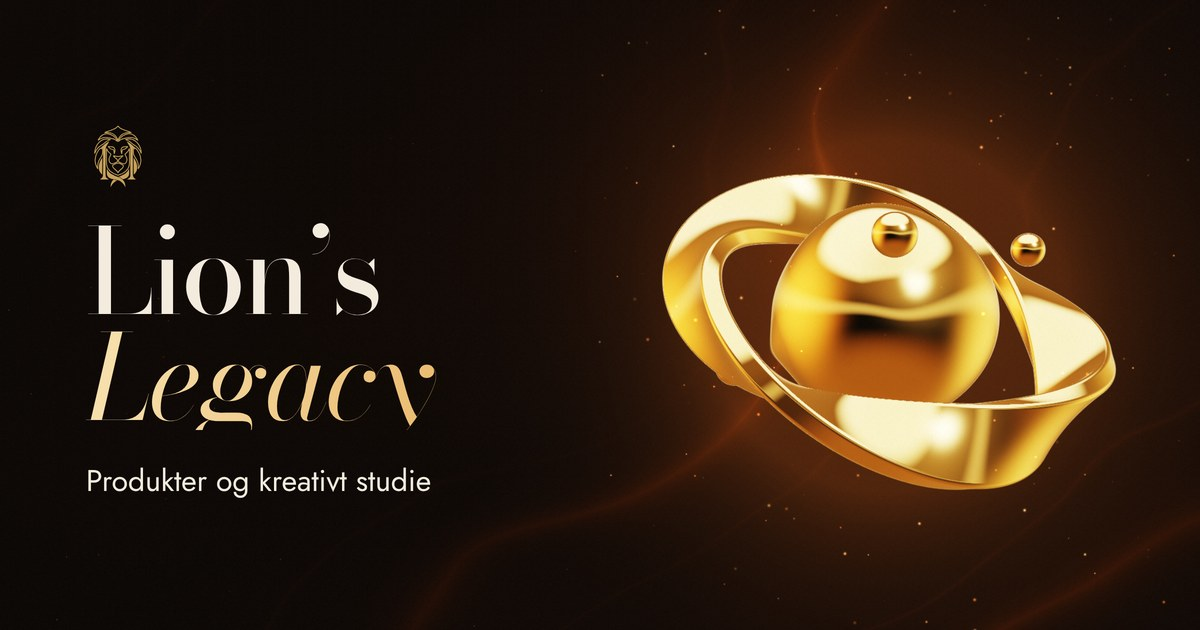
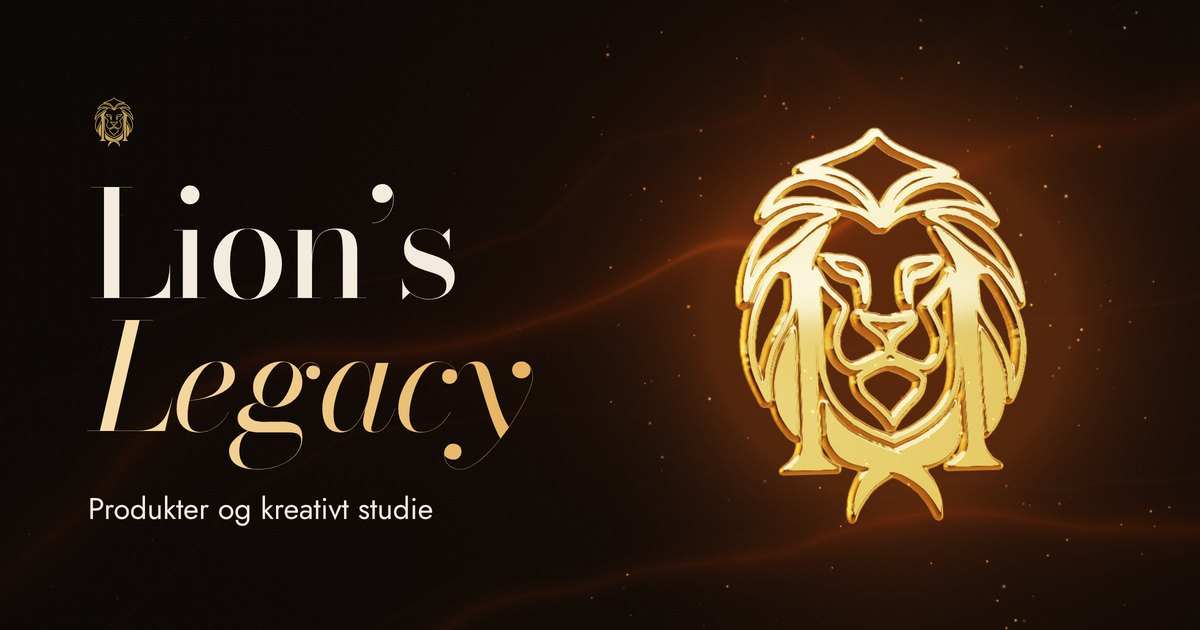
Løven fra logoet i guld som ny 3D-grafik
Kuglen med ringen er skiftet ud med løven fra logoet i poleret guld.

- scene.js tegner logoets streger (kopieret fra maerke.svg) på et lille
  lærred, regner afstanden til kanten ud for hver pixel og bruger feltet
  til at forme løven i 3D. Stregerne får en afrundet guldprofil, og en
  bølge af lys løber op gennem dem.
- Løven vender sig roligt mod musen og svajer lidt, men aldrig så
  meget, at den ses fra kanten. Står stille ved reduceret bevægelse.
- Kan browseren ikke læse tegningen, vises baggrunden uden 3D.
- Nyt delingsbillede (deling.jpg) med løven.
- README og CLAUDE.md fortæller, hvor løvens streger ligger.

Claude-Session: https://claude.ai/code/session_01VNWgwDe34UX7Nco1c2jxEJ

diff --git a/assets/js/scene.js b/assets/js/scene.js
@@ -1,5 +1,5 @@
 /* Lion’s Legacy — 3D-baggrund
-   En skulptur af flydende guld, gnister og en glødende guld/orange strøm.
+   Løven fra logoet i poleret guld, gnister og en glødende guld/orange strøm.
    Tegnes med WebGL direkte i browseren: ingen biblioteker, ingen tredjepart,
    ingen cookies. Følger musen, stopper når fanen er skjult, og står stille
    for besøgende, der har slået bevægelse fra (prefers-reduced-motion). */
@@ -32,12 +32,10 @@
     "uniform float uScale;",
     "uniform float uDim;",    // skulpturens lysstyrke
     "uniform float uFlow;",   // strømmens lysstyrke
-    "uniform vec3 uDrop;",    // dråben, der trækkes mod markøren
     "uniform vec3 uLight;",
-    "uniform mat3 uBand;",    // båndets drejning (beregnes i JavaScript)
-    "uniform vec4 uOrb0;",    // dråber i kredsløb: position og radius
-    "uniform vec4 uOrb1;",
-    "uniform vec4 uOrb2;",
+    "uniform mat3 uDrej;",    // løvens drejning mod markøren (beregnes i JavaScript)
+    "uniform sampler2D uLogo;", // løvens omrids som afstandsfelt (se logoFelt)
+    "uniform float uLogoN;",  // feltets størrelse i pixels
 
     "const float FL = 2.2;",
     "const vec3 RO = vec3(0.0, 0.0, 6.0);",
@@ -47,8 +45,6 @@
     "  return mix(mix(hash(i),hash(i+vec2(1.0,0.0)),u.x),mix(hash(i+vec2(0.0,1.0)),hash(i+vec2(1.0,1.0)),u.x),u.y);}",
     "float fbm(vec2 p){float v=0.0,a=0.5;mat2 m=mat2(1.6,1.2,-1.2,1.6);",
     "  for(int i=0;i<4;i++){v+=a*noise(p);p=m*p;a*=0.5;}return v;}",
-    "mat2 rot(float a){float c=cos(a),s=sin(a);return mat2(c,-s,s,c);}",
-    "float smin(float a,float b,float k){float h=clamp(0.5+0.5*(b-a)/k,0.0,1.0);return mix(b,a,h)-k*h*(1.0-h);}",
 
     // Guld/orange farveskala til strømmen (sRGB)
     "vec3 ramp(float x){",
@@ -59,32 +55,39 @@
     "  if(x<0.82)return mix(c2,c3,(x-0.6)/0.22);",
     "  return mix(c3,c4,(x-0.82)/0.18);}",
 
-    // Skulpturen: en flydende kerne, et snoet bånd og dråber
-    "float band(vec3 p){",
-    "  float a=atan(p.z,p.x);",
-    "  vec2 q=vec2(length(p.xz)-1.0,p.y);",
-    "  q=rot(a*1.5+uTime*0.35)*q;",
-    "  vec2 d=abs(q)-vec2(0.17,0.032);",
-    "  return length(max(d,0.0))+min(max(d.x,d.y),0.0)-0.022;}",
-
+    // Løvens omrids: afstand til logoet i planet (negativ inde i stregerne).
+    // Feltet dækker -1..1. Til lysberegningen (GLAT) læses det blødt, så guldet ikke får små riller.
+    "float GLAT=0.0;",
+    "vec4 kub(float v){vec4 n=vec4(1.0,2.0,3.0,4.0)-v;vec4 s=n*n*n;",
+    "  float x=s.x,y=s.y-4.0*s.x,z=s.z-4.0*s.y+6.0*s.x;return vec4(x,y,z,6.0-x-y-z)/6.0;}",
+    "vec4 bloedt(vec2 uv){",
+    "  vec2 st=uv*uLogoN-0.5;vec2 f=fract(st);st-=f;",
+    "  vec4 xc=kub(f.x),yc=kub(f.y);",
+    "  vec4 c=st.xxyy+vec2(-0.5,1.5).xyxy;",
+    "  vec4 s=vec4(xc.xz+xc.yw,yc.xz+yc.yw);",
+    "  vec4 o=(c+vec4(xc.yw,yc.yw)/s)/uLogoN;",
+    "  vec4 a=texture2D(uLogo,o.xz),b=texture2D(uLogo,o.yz),e=texture2D(uLogo,o.xw),d=texture2D(uLogo,o.yw);",
+    "  float sx=s.x/(s.x+s.y),sy=s.z/(s.z+s.w);",
+    "  return mix(mix(d,e,sx),mix(b,a,sx),sy);}",
+    "float logo(vec2 q){",
+    "  vec2 uv=clamp(vec2(0.5+q.x*0.5,0.5-q.y*0.5),0.001,0.999);",
+    "  vec4 t=GLAT>0.5?bloedt(uv):texture2D(uLogo,uv);",
+    "  float fin=(t.a-0.5)*0.04;",
+    "  float d=abs(fin)<0.0195?fin:(t.r-0.5)*0.25;",
+    "  vec2 o=abs(q)-0.999;",
+    "  return max(d,length(max(o,0.0)));}",
+    // Løven: logoets streger som afrundet, poleret guld, hvor en bølge af lys løber op
     "float map(vec3 w){",
-    "  vec3 p=(w-uCenter)/uScale;",
-    "  float t=uTime;",
-    // Kernen ånder
-    "  float core=length(p)-0.56;",
-    "  core+=0.022*sin(5.0*p.x+t*1.1)*sin(5.0*p.y+t*0.8)*sin(5.0*p.z+t*0.9);",
-    // Dråben ved markøren trækkes ud af kernen
-    "  float d=smin(core,length(p-uDrop)-0.105,0.24);",
-    // Dråber i kredsløb, der smelter sammen med kernen
-    "  d=smin(d,length(p-uOrb0.xyz)-uOrb0.w,0.26);",
-    "  d=smin(d,length(p-uOrb1.xyz)-uOrb1.w,0.26);",
-    "  d=smin(d,length(p-uOrb2.xyz)-uOrb2.w,0.26);",
-    // Båndet drejer med musen og langsomt af sig selv
-    "  d=min(d,band(uBand*p)*0.75);",
-    "  return d*uScale;}",
+    "  vec3 q=uDrej*((w-uCenter)/uScale);",
+    "  float S=1.12;",
+    "  float flow=pow(0.5+0.5*sin(q.y*3.0-uTime*1.4),8.0);",
+    "  float H=0.05+0.01*flow;",
+    "  float l=logo(q.xy/S)*S-0.016-0.006*flow;",
+    "  return (length(vec2(max(l+H,0.0),q.z))-H)*0.9*uScale;}",
 
-    "vec3 normal(vec3 p){vec2 e=vec2(0.0015,-0.0015)*uScale;",
-    "  return normalize(e.xyy*map(p+e.xyy)+e.yyx*map(p+e.yyx)+e.yxy*map(p+e.yxy)+e.xxx*map(p+e.xxx));}",
+    "vec3 normal(vec3 p){vec2 e=vec2(0.002,-0.002)*uScale;GLAT=1.0;",
+    "  vec3 n=normalize(e.xyy*map(p+e.xyy)+e.yyx*map(p+e.yyx)+e.yxy*map(p+e.yxy)+e.xxx*map(p+e.xxx));",
+    "  GLAT=0.0;return n;}",
 
     // Et mørkt fotostudie med varme lyskasser, som guldet spejler
     "vec3 env(vec3 r){",
@@ -236,6 +239,100 @@
     return u;
   }
 
+  /* ---------- Løven fra logoet ----------
+     Stregerne er kopieret fra assets/img/maerke.svg. Ændres logoet, så kopier
+     de nye d-værdier hertil: den første sti tegnes som streg, resten fyldes. */
+
+  var LOGO_STREG = "M49.6 75.8C49.4 75.7 49 75.5 48.7 75.4C48.5 75.3 48.1 75.2 48 75.1C47.8 75 47.6 74.9 46.7 74.6C45.8 74.3 44.1 73.5 43.5 73.1C43.3 73 43 72.8 42.8 72.7C40.7 71.6 38.1 69.2 36.9 67.3C36.8 67.1 36.6 66.8 36.5 66.6C36 65.8 35.4 64.5 35.2 63.5C35.1 63.1 35 62.9 34.8 61.9C34.7 61.4 34.6 59.6 34.6 58.2C34.5 57.5 34.5 53.4 34.5 49.1L34.5 41.3L34.6 40.9C34.7 40.6 34.7 40.3 34.7 40.3C34.7 40 34.8 40.1 34.9 40.5C35.1 40.9 35.2 41.1 35.3 41.4C35.6 42 35.9 42.5 36 42.8C36.1 42.9 36.2 43.1 36.2 43.1C36.2 43.1 36.5 43.6 36.9 44.1C37.3 44.6 37.8 45.1 39.5 46.6C39.9 47.1 40.3 47.5 40.4 47.6L40.5 47.7L40.4 48.0C40.3 48.3 39.9 49.1 39 51.1C38.5 51.9 38.2 53 38 53.9C38 54.4 38 55.7 38 56.2C38.3 57.6 39.1 59.1 40.2 59.8C40.9 60.4 41.3 60.5 42 60.5C42.7 60.5 43.6 60.3 45.5 59.4C45.7 59.4 46.2 59.2 46.6 59.0C48 58.4 49.1 57.8 49.3 57.5C49.4 57.4 49.4 57.3 49.4 56.7C49.4 55.9 49.3 55.7 49.1 55.1C48.8 54.5 48 53.7 47.3 53.2C46.9 52.9 45.9 52.2 45.4 51.8C44.5 51.1 44.2 50.6 44.1 50.0C44 49.5 44.1 49.5 44.3 49.7C44.6 49.9 44.9 50 45.9 50.1C46.2 50.2 46.6 50.2 46.7 50.2C46.9 50.3 47.2 50.3 47.4 50.3C47.7 50.4 47.9 50.4 47.9 50.4C48 50.5 49.2 50.6 50 50.6C50.7 50.6 52 50.5 52.1 50.4C52.1 50.4 52.3 50.4 52.5 50.3C52.8 50.3 53.1 50.3 53.2 50.2C53.4 50.2 53.8 50.2 54.1 50.1C55.1 50 55.4 49.9 55.6 49.7C55.9 49.5 55.9 49.5 55.9 50.0C55.8 50.6 55.4 51.1 54.6 51.8C54 52.2 53 52.9 52.7 53.2C52 53.7 51.2 54.5 50.9 55.1C50.6 55.7 50.6 55.9 50.6 56.7C50.6 57.3 50.6 57.4 50.7 57.5C50.9 57.8 52 58.4 53.4 59.0C53.8 59.2 54.3 59.4 54.4 59.4C56.3 60.3 57.2 60.5 58 60.5C58.6 60.5 59.1 60.4 59.8 59.8C60.8 59.1 61.7 57.6 61.9 56.2C62 55.7 62 54.4 61.9 53.9C61.8 53 61.4 51.9 61 51.1C60 49.1 59.6 48.3 59.5 48.0L59.4 47.7L59.6 47.6C59.6 47.5 60 47.1 60.5 46.6C62.1 45.1 62.6 44.6 63 44.1C63.4 43.6 63.7 43.1 63.7 43.1C63.7 43.1 63.8 42.9 63.9 42.8C64.1 42.5 64.4 42 64.7 41.4C64.8 41.1 64.9 40.9 65 40.5C65.1 40.1 65.2 40 65.2 40.3C65.2 40.3 65.3 40.6 65.3 40.9L65.4 41.3L65.4 49.1C65.4 53.4 65.4 57.5 65.4 58.2C65.4 59.6 65.2 61.4 65.1 61.9C64.9 62.9 64.9 63.1 64.8 63.5C64.5 64.5 64 65.8 63.5 66.6C63.4 66.8 63.2 67.1 63 67.3C61.9 69.2 59.3 71.6 57.2 72.7C57 72.8 56.6 73 56.5 73.1C55.9 73.5 54.2 74.3 53.3 74.6C52.4 74.9 52.2 75 52 75.1C51.8 75.2 51.5 75.3 51.2 75.4C50.9 75.5 50.5 75.7 50.3 75.8C50.1 75.8 50 75.9 50 75.9C50 75.9 49.8 75.8 49.6 75.8ZM50.1 72.3C50.4 71.5 52.1 69.5 53.5 68.3C55.5 66.7 56.3 65.9 56.6 65.2C56.9 64.6 57.2 63.6 57.2 63.0C57.2 62.8 57.2 62.7 57.1 62.6C57 62.5 56.1 61.9 56 61.9C55.9 61.8 55.8 61.8 55.7 61.7C55.6 61.6 55.3 61.5 55.1 61.4C54.8 61.2 54.4 61 54.1 60.9C53.7 60.6 52.8 60.2 52.4 60.1C51.9 59.9 51.4 59.8 51.2 59.7C51.1 59.7 50.9 59.7 50.7 59.6C50.5 59.6 50.2 59.6 50 59.6C49.7 59.6 49.4 59.6 49.3 59.6C49.1 59.7 48.9 59.7 48.7 59.7C48.5 59.8 48.1 59.9 47.5 60.1C47.1 60.2 46.3 60.6 45.8 60.9C45.6 61 45.1 61.2 44.9 61.4C44.7 61.5 44.4 61.6 44.3 61.7C44.1 61.8 44 61.8 44 61.9C43.9 61.9 43 62.5 42.9 62.6C42.6 62.9 42.9 64.3 43.3 65.2C43.7 65.9 44.4 66.7 46.4 68.3C47.9 69.5 49.6 71.5 49.9 72.3C49.9 72.4 50 72.4 50 72.4C50 72.4 50 72.4 50.1 72.3ZM22.5 66.8C22.5 66.6 22.2 66.2 22 65.8C20.9 63.7 20.2 61.8 19.8 60.3C19.8 60.2 19.8 59.9 19.7 59.7C19.7 59.5 19.6 59 19.5 58.6C19.5 58.3 19.4 57.7 19.4 57.5C19.3 57.1 19.3 56.8 19.3 55.6C19.4 53.5 19.6 52.1 20.2 49.8C20.2 49.7 20.4 49.2 20.5 48.8C21.1 47.2 21.1 47.4 22 45.4C22.6 44.2 24.1 41.9 25 40.9C25.1 40.7 25.4 40.4 25.6 40.2L25.9 39.9L26.6 39.8C27.8 39.8 28.3 39.9 28.8 40.3C29 40.5 29.1 40.7 29.3 41.2C29.4 41.5 29.4 41.5 29.4 43.7C29.4 45.9 29.3 46.3 29.1 47.1C29.1 47.2 29.1 47.4 29 47.5C28.8 48.2 28.2 49.8 27.9 50.1C27.9 50.2 27.8 50.3 27.8 50.4C27.7 50.6 27.5 50.9 27.3 51.2C27.1 51.5 26.8 52.1 26.5 52.6C26.2 53 25.9 53.5 25.9 53.5C25.8 53.7 25.7 53.8 25.5 54.2C25.3 54.7 25.1 54.9 24.9 55.2C24.6 55.8 24.1 56.9 24 57.3C24 57.3 23.9 57.5 23.9 57.6C23.4 58.9 22.8 61.3 22.8 62.1C22.8 62.2 22.8 62.5 22.7 62.8C22.6 63.5 22.6 65.2 22.7 66.1C22.8 67 22.8 67.1 22.7 67.1C22.7 67.1 22.6 66.9 22.5 66.8ZM77.2 66.9C77.2 66.9 77.2 66.5 77.2 66.1C77.3 65.2 77.3 63.5 77.2 62.8C77.2 62.5 77.2 62.2 77.2 62.1C77.2 61.3 76.6 58.9 76.1 57.6C76 57.5 76 57.3 76 57.3C75.8 56.9 75.3 55.8 75 55.2C74.9 54.9 74.7 54.6 74.5 54.2C74.2 53.8 74.2 53.7 74.1 53.5C74 53.5 73.8 53 73.5 52.6C73.2 52.1 72.8 51.5 72.6 51.2C72.5 50.9 72.3 50.6 72.2 50.4C72.1 50.3 72 50.2 72 50.1C71.8 49.8 71.1 48.2 70.9 47.5C70.9 47.4 70.8 47.2 70.8 47.1C70.6 46.3 70.6 45.9 70.6 43.7C70.6 41.5 70.6 41.5 70.7 41.2C70.8 40.7 70.9 40.5 71.2 40.3C71.7 39.9 72.1 39.8 73.4 39.8L74 39.9L74.4 40.2C74.5 40.4 74.8 40.7 75 40.9C75.8 41.9 77.3 44.2 77.9 45.4C78.9 47.4 78.8 47.2 79.4 48.8C79.6 49.2 79.7 49.7 79.8 49.9C80 50.5 80 50.6 80.1 51.1C80.3 51.8 80.4 52.7 80.5 53.7C80.7 54.6 80.7 56.9 80.6 57.5C80.5 57.7 80.5 58.3 80.4 58.6C80.4 59 80.3 59.5 80.2 59.7C80.2 59.9 80.1 60.2 80.1 60.3C79.8 61.8 79 63.7 78 65.8C77.7 66.2 77.5 66.6 77.4 66.8C77.3 67.1 77.2 67.1 77.2 66.9ZM44.9 45.9C44.9 43.8 44.6 42.6 43.8 41.5C43.5 41.2 43.4 41.1 42.4 41.1C40.5 41 39.7 40.5 37.7 38.2C37.4 37.9 37.1 37.6 37 37.5C37 37.5 36.9 37.4 36.9 37.4C36.9 37.3 37.9 37.3 38.8 37.4C39.2 37.4 39.8 37.4 40.3 37.5C42.5 37.6 43.7 37.9 44.5 38.7C44.8 39 45 39.2 45.2 39.6C45.8 40.8 46 43.1 45.6 44.8C45.5 45.1 45.5 45.4 45.5 45.4C45.5 45.5 45.4 45.7 45.3 46.0C45 46.7 45 46.7 45 46.8C44.9 46.8 44.9 46.8 44.9 45.9ZM55 46.8C54.9 46.6 54.5 45.6 54.5 45.4C54.5 45.4 54.4 45.1 54.4 44.8C54 43.1 54.1 40.8 54.8 39.6C55 39.2 55.1 39 55.4 38.7C56.3 37.9 57.5 37.6 59.6 37.5C60.1 37.4 60.8 37.4 61.1 37.4C62 37.3 63 37.3 63 37.4C63 37.4 63 37.5 62.9 37.5C62.9 37.6 62.6 37.9 62.3 38.2C60.2 40.5 59.5 41 57.5 41.1C56.6 41.1 56.5 41.2 56.2 41.5C55.4 42.6 55.1 43.8 55.1 45.8C55.1 46.4 55.1 46.8 55.1 46.8C55.1 46.8 55 46.8 55 46.8ZM18.7 46.3C18.7 45.1 18.9 43.7 19 42.8C19.3 41.2 19.9 39.2 20.4 38.1C20.5 37.8 20.6 37.5 20.6 37.5C20.6 37.4 21.4 36 21.6 35.6C21.7 35.6 21.7 35.5 21.7 35.5C21.7 35.4 21.8 35.3 21.8 35.2C21.9 35.1 22 35 22 34.9C22.2 34.6 22.6 34 22.8 33.8C23 33.6 23.3 33.3 23.5 33.0C23.7 32.7 24 32.3 24.1 32.2C24.4 31.9 25.6 30.8 26.1 30.4C26.2 30.2 26.5 30 26.6 29.9C26.8 29.7 28.2 28.9 28.3 28.9C28.3 28.9 28.5 28.8 28.6 28.7C29.1 28.4 30.2 27.9 30.7 27.8C31.2 27.7 31.4 27.6 31.7 27.5C32 27.5 32.4 27.4 32.6 27.3C32.8 27.3 33.1 27.2 33.3 27.2C33.8 27.1 36 27.1 36.7 27.2C37.4 27.3 38.2 27.4 38.4 27.5C38.8 27.6 39.4 27.8 39.5 27.8C39.7 27.8 39.7 27.9 39.5 28.0C39.4 28 39.3 28.1 39.2 28.1C39.1 28.2 38.6 28.4 38.1 28.6C37.6 28.8 37.1 29 36.8 29.1C35.7 29.8 35.6 29.8 35.4 29.9C34.5 30.5 33.3 31.4 32.2 32.3C31.5 32.9 31.4 33 30.7 33.6C30.1 34 28.7 35 27.6 35.6C26.9 36 26.9 36.1 26.8 36.1C26.8 36.1 26.6 36.3 26.3 36.4C26.1 36.6 25.7 36.9 25.4 37.1C23.4 38.5 21.8 40.4 20.4 42.9C19.9 43.9 19.1 45.6 18.9 46.1C18.8 46.4 18.7 46.5 18.7 46.3ZM81.1 46.3C81.1 46.3 81.1 46.3 81.1 46.2C81.1 46 80.3 44.4 79.9 43.5C79.2 42.2 79.2 42.3 78.7 41.6C77.6 39.8 76.2 38.3 74.5 37.1C74.2 36.9 73.8 36.6 73.6 36.4C73.4 36.3 73.2 36.1 73.1 36.1C73.1 36.1 73 36 72.3 35.6C71.7 35.3 71.6 35.2 70.4 34.4C69.7 33.9 69.4 33.7 67.8 32.3C66.7 31.4 65.5 30.5 64.5 29.9C64.4 29.8 64.3 29.8 63.1 29.1C62.9 29 62.3 28.8 61.8 28.6C61.3 28.4 60.9 28.2 60.8 28.1C60.7 28.1 60.5 28 60.5 28.0C60.3 27.9 60.3 27.8 60.4 27.8C60.5 27.8 61.1 27.6 61.5 27.5C61.8 27.4 62.6 27.3 63.2 27.2C64 27.1 66.1 27.1 66.7 27.2C66.8 27.2 67.1 27.3 67.4 27.3C67.6 27.4 68 27.5 68.2 27.5C68.6 27.6 68.8 27.7 69.2 27.8C69.8 27.9 70.9 28.4 71.3 28.7C71.5 28.8 71.6 28.9 71.7 28.9C71.7 28.9 73.1 29.7 73.3 29.9C73.5 30 73.7 30.2 73.9 30.4C74.4 30.8 75.6 31.9 75.8 32.2C76 32.3 76.3 32.7 76.5 33.0C76.7 33.3 77 33.6 77.1 33.8C77.3 34 77.7 34.6 77.9 34.9C78 35.1 78.1 35.3 78.3 35.5C78.3 35.6 78.3 35.6 78.4 35.7C78.4 35.7 78.5 35.9 78.6 36.0C78.7 36.2 79.3 37.5 79.3 37.5C79.3 37.5 79.4 37.8 79.6 38.1C80.1 39.2 80.7 41.2 80.9 42.8C81.1 43.7 81.2 45.1 81.2 46.2C81.2 46.4 81.2 46.4 81.1 46.3ZM49 30.2C48.6 29.7 47.2 28.7 46.2 28.1C45.3 27.5 43.7 26.9 42.4 26.7C42 26.6 39.2 25.9 39.1 25.9C39 25.8 37.5 25.5 36.4 25.4C34.4 25.1 32 25.1 30.3 25.4C29.2 25.7 28.9 25.8 28.4 26.0C28.4 26 28.1 26.1 27.8 26.2C27.3 26.4 27 26.6 25.9 27.1C25.3 27.5 24.5 28 23.8 28.5C23.6 28.7 23.4 28.8 23.4 28.8C23.3 28.8 23.4 28.6 23.5 28.5C23.6 28.3 23.7 28.1 23.7 28.0C23.9 27.7 24.3 27 24.4 26.8C24.5 26.7 24.5 26.6 24.5 26.6C24.5 26.6 25.4 25.3 25.8 24.8C27.2 23 29.5 21.3 31.3 20.8C32.1 20.5 32.7 20.4 33.4 20.2C34.1 20.1 36.1 20.1 36.7 20.2C39 20.7 40.5 21.2 42.4 22.3C43.1 22.6 44.3 23.4 44.7 23.8C45.2 24.2 46.3 25.4 46.6 25.8C46.7 25.9 47 26.1 47.1 26.3C47.3 26.5 47.6 26.9 47.8 27.2C48 27.5 48.1 27.8 48.2 27.9C48.2 27.9 48.3 28.1 48.4 28.3C48.5 28.5 48.7 28.9 48.8 29.1C49 29.6 49.3 30.3 49.3 30.4C49.3 30.4 49.2 30.4 49 30.2ZM50.6 30.4C50.6 30.3 50.9 29.6 51.2 29.1C51.3 28.9 51.5 28.5 51.5 28.3C51.6 28.1 51.7 27.9 51.8 27.9C51.8 27.8 52 27.5 52.2 27.2C52.4 26.9 52.7 26.5 52.8 26.3C53 26.1 53.2 25.9 53.3 25.8C53.6 25.4 54.8 24.2 55.2 23.8C55.7 23.4 56.9 22.6 57.5 22.3C59.4 21.2 60.9 20.7 63.3 20.2C63.9 20.1 65.8 20.1 66.5 20.2C67.2 20.4 67.8 20.5 68.7 20.8C70.4 21.3 72.7 23 74.1 24.8C74.5 25.3 75.4 26.6 75.4 26.6C75.4 26.6 75.5 26.7 75.5 26.8C75.7 27 76 27.7 76.2 28.0C76.3 28.1 76.4 28.3 76.5 28.5C76.6 28.6 76.6 28.8 76.6 28.8C76.6 28.8 76.4 28.7 76.2 28.5C75.5 28 74.7 27.5 74 27.1C72.9 26.6 72.6 26.4 72.2 26.2C71.9 26.1 71.6 26 71.5 26.0C71.1 25.8 70.7 25.7 69.6 25.4C67.9 25.1 65.6 25.1 63.5 25.4C62.5 25.5 60.9 25.8 60.8 25.9C60.8 25.9 58 26.6 57.5 26.7C56.2 26.9 54.7 27.5 53.7 28.1C52.8 28.7 51.4 29.7 50.9 30.2C50.7 30.4 50.6 30.4 50.6 30.4ZM49.8 28.7C49.8 28.6 49.8 28.5 49.7 28.3C49.5 27.6 48.7 25.9 48.4 25.4C48.3 25.2 48 24.9 47.9 24.6C47.3 23.6 46.4 22.7 45.4 21.8C45.1 21.5 44.4 21 44.4 21.0C44.4 21 44.3 20.9 44.2 20.9C43.3 20.2 42.3 19.7 41.3 19.4C39 18.6 37.4 18.4 34.1 18.5C33.1 18.5 32.3 18.5 32.3 18.5C32.2 18.5 33.2 18 33.6 17.8C33.8 17.8 34 17.7 34.2 17.6C34.4 17.5 34.7 17.4 34.9 17.3C35.1 17.3 35.5 17.1 35.7 17.1C35.9 17 36.3 16.9 36.5 16.8C36.9 16.7 38.1 16.3 38.4 16.2C38.4 16.1 38.8 16 39.2 15.9C39.5 15.8 40.1 15.6 40.4 15.5C40.9 15.3 41 15.2 41.3 15.1C41.6 15 41.9 14.9 42.2 14.8C42.4 14.7 42.7 14.6 42.8 14.6C42.9 14.5 43 14.5 43.1 14.4C43.2 14.4 43.5 14.3 43.7 14.2C43.8 14.1 44.2 13.9 44.5 13.8C45.1 13.6 45.9 13.2 46.4 12.9C46.4 12.8 46.5 12.8 46.5 12.8C46.6 12.7 46.7 12.7 46.7 12.6C46.8 12.6 47 12.5 47.1 12.4C47.8 12 48.9 10.9 49.5 10.2C49.6 10.1 49.7 10 49.7 10.0C49.7 9.9 49.8 10 49.8 10.1L50 10.2L50.1 10.1C50.2 10 50.3 9.9 50.3 10.0C50.3 10 50.4 10.1 50.5 10.2C51 10.9 52.2 12 52.8 12.4C53 12.5 53.2 12.6 53.2 12.6C53.3 12.7 53.4 12.7 53.4 12.8C53.5 12.8 53.6 12.8 53.6 12.9C54.1 13.2 54.8 13.6 55.5 13.8C55.7 13.9 56.1 14.1 56.3 14.2C56.5 14.3 56.7 14.4 56.8 14.4C56.9 14.5 57.1 14.5 57.2 14.6C57.3 14.6 57.5 14.7 57.7 14.8C58 14.9 58.4 15 58.7 15.1C58.9 15.2 59.1 15.3 59.6 15.5C59.9 15.6 60.4 15.8 60.8 15.9C61.1 16 61.5 16.1 61.6 16.2C61.8 16.3 63 16.7 63.5 16.8C63.7 16.9 64.1 17 64.3 17.1C64.5 17.1 64.8 17.3 65 17.3C65.2 17.4 65.6 17.5 65.7 17.6C65.9 17.7 66.2 17.8 66.3 17.8C66.8 18 67.7 18.5 67.7 18.5C67.7 18.5 66.8 18.5 65.8 18.5C62.5 18.4 60.9 18.6 58.7 19.4C57.7 19.7 56.7 20.2 55.7 20.9C55.7 20.9 55.6 21 55.6 21.0C55.5 21 54.9 21.5 54.5 21.8C53.5 22.7 52.7 23.6 52.1 24.6C51.9 24.9 51.7 25.2 51.6 25.4C51.2 25.9 50.4 27.6 50.2 28.3C50.1 28.7 50.1 28.7 50 28.8C49.9 28.8 49.9 28.7 49.8 28.7Z";
+  var LOGO_FYLD = ["M40.2 91.5C40 89 40.4 86.9 41.5 84.9C42 83.8 42.3 83.3 43.5 82.1C43.9 81.7 43.9 81.7 44 81.7C44.1 81.7 44.4 81.7 44.7 81.8C45.9 82 46.8 82.1 48.1 82.5C48.7 82.6 49.2 82.8 49.2 82.8C49.2 82.8 49.2 82.8 48.7 83.0C47.9 83.3 47.3 83.6 46.8 84.0C46.7 84.1 46.4 84.2 46.2 84.4C45.4 84.9 44.2 85.9 43.6 86.6C42.2 88.2 41.2 89.6 40.5 91.3C40.4 91.7 40.3 91.9 40.2 91.9C40.2 92 40.2 91.8 40.2 91.5ZM63 81.5C62.5 81.5 62.3 81.5 62.3 81.4C62.3 81.4 62.3 81.3 62.4 81.3C62.4 81.3 62.7 81.2 62.9 81.0C63.1 80.9 63.4 80.7 63.5 80.7C63.8 80.5 64.3 80.2 64.6 79.9C64.9 79.7 65.9 78.8 66 78.5C66.2 78.2 66.3 77.8 66.5 77.2L66.6 76.6L66.6 73.3C66.6 67.6 66.5 40.7 66.5 40.2C66.4 39.5 66.3 38.9 66 38.0C65.6 36.9 65.2 36 63.7 33.8C63.5 33.4 63.2 33 63.1 32.8C63 32.6 62.9 32.4 62.9 32.4C62.8 32.4 62.8 32.2 62.7 32.1C62.6 32 62.5 31.7 62.4 31.6C62.2 31.2 61.8 30.5 61.8 30.5C61.9 30.4 63.3 31 64.1 31.5C64.2 31.6 64.4 31.7 64.4 31.7C64.4 31.7 65.3 32.3 65.7 32.6C66.4 33.1 66.6 33.3 67.5 34.1C68.1 34.5 68.5 34.9 68.6 35.0C68.7 35.1 69 35.3 69.2 35.5C69.5 35.7 69.8 36.1 70.1 36.2C70.4 36.6 71 37.1 71.5 37.6C71.7 37.7 72 38 72.2 38.1C72.4 38.3 72.6 38.6 72.8 38.7C72.9 38.8 73.1 39 73.2 39.1C73.6 39.4 73.6 39.4 72.6 39.4C71.1 39.4 70.7 39.6 70.2 40.4C70 41 70 40.4 70 50.6C70 70.9 70 74.8 70.1 76.0C70.2 76.6 70.4 77.4 70.6 77.9C71.1 79.2 72.4 80.4 74 81.2C74.5 81.5 74.4 81.5 73.2 81.5C72.7 81.5 70.3 81.5 68 81.5C65.7 81.5 63.4 81.5 63 81.5ZM56.2 81.0C56 80.9 55.7 80.7 55.5 80.5C55.2 80.3 54.9 80.1 54.7 80.0C54.3 79.7 53.6 79.2 53 78.9C52.5 78.7 51.8 78.4 51.7 78.4C51.7 78.4 51.5 78.3 51.2 78.2C51 78.1 50.8 78 50.8 78.0C50.7 78 50.7 77.9 50.8 77.8C51 77.8 51.1 77.8 51.6 77.6C51.8 77.5 52.1 77.4 52.4 77.3C53 77 53.5 76.9 53.7 76.8C53.9 76.7 54 76.6 54.1 76.6C54.2 76.6 54.3 76.5 54.5 76.5C54.6 76.4 54.9 76.3 55.3 76.1C56.5 75.6 58.2 74.7 59.1 74.1C60 73.5 60.6 73 61.4 72.2C62.7 70.9 63.4 69.9 64.4 68.0C64.6 67.6 64.8 67.2 64.8 67.2C64.9 67.2 65 69.5 65 71.7C65 74.3 64.9 74.9 64.5 76.0C64.1 77.1 62.9 78.5 61.9 79.2C61.8 79.3 61.5 79.4 61.4 79.5C61.2 79.6 61.1 79.7 61 79.7C61 79.7 60.9 79.8 60.8 79.8C60.4 80.1 59.4 80.5 58.6 80.7C57.9 80.9 57.6 81 56.8 81.1C56.7 81.1 56.5 81.1 56.5 81.2C56.4 81.2 56.3 81.1 56.2 81.0ZM71.2 74.9C71.2 74.7 71.2 73.2 71.1 69.6C71.1 67.1 71.1 63.4 71 61.3C71 55.6 71 52.2 71 52.2C71 52.2 71.1 52.3 71.2 52.5C71.3 52.6 71.5 52.9 71.6 53.1C71.9 53.4 72.5 54.4 72.5 54.4C72.5 54.4 72.6 54.7 72.8 55.0C73.1 55.5 73.5 56.3 73.5 56.4C73.5 56.4 73.8 57 74 57.5C74.2 57.7 74.3 58 74.4 58.2C75.4 60.9 75.8 62.9 75.8 65.3C75.8 66.9 75.6 68.2 75.1 69.6C74.8 70.5 73.9 72.1 73.1 73.1C72.4 73.9 71.2 75 71.2 74.9Z", "M59.6 91.8C59.6 91.7 59.4 91.4 59.3 91.1C59.1 90.6 58.9 90.2 58.6 89.7C58 88.6 57.3 87.6 56.4 86.6C55.8 85.9 54.5 84.9 53.8 84.4C53.6 84.2 53.3 84.1 53.2 84.0C52.6 83.6 52 83.3 51.3 83.0C51 82.9 50.5 82.7 50.3 82.6C49.7 82.4 49.5 82.3 48.3 82.0C47 81.7 46.3 81.6 45.1 81.4C44.8 81.3 44.4 81.3 44.1 81.2C42.5 81 41.8 80.9 40.7 80.5C40.2 80.3 39.4 80 39.1 79.8C39 79.8 38.9 79.7 38.9 79.7C38.9 79.7 38.7 79.6 38.6 79.5C38.4 79.4 38.2 79.3 38 79.2C37 78.5 35.9 77.1 35.5 76.0C35.1 74.9 35 74.3 35 71.7C35 69.5 35.1 67.2 35.2 67.2C35.2 67.2 35.4 67.6 35.6 68.0C36.5 69.9 37.2 70.9 38.5 72.2C39.4 73 40 73.5 40.8 74.1C41.8 74.7 43.5 75.6 44.7 76.1C45 76.3 45.4 76.4 45.5 76.5C45.6 76.5 45.8 76.6 45.9 76.6C45.9 76.6 46.1 76.7 46.2 76.8C46.5 76.9 46.9 77 47.6 77.3C47.8 77.4 48.2 77.5 48.4 77.6C48.7 77.7 48.7 77.7 49.6 78.0C50.2 78.3 50.4 78.4 50.9 78.6C51.1 78.7 51.3 78.8 51.3 78.8C51.4 78.8 52.1 79.1 52.6 79.3C53.5 79.8 54.2 80.2 55.6 81.3C56.2 81.7 57.3 83 57.9 83.9C58.3 84.4 58.9 85.7 59.1 86.3C59.7 88 59.9 89.6 59.8 91.5C59.8 92 59.7 92 59.6 91.8ZM26.7 81.5C25.5 81.5 25.5 81.5 26 81.2C27.5 80.4 28.8 79.2 29.3 77.9C29.5 77.4 29.7 76.6 29.8 76.0C29.9 74.8 30 70.9 30 50.6C30 40.4 30 41 29.7 40.4C29.3 39.6 28.8 39.4 27.3 39.4C26.4 39.4 26.4 39.4 26.7 39.1C26.8 39 27 38.8 27.2 38.7C27.3 38.6 27.6 38.3 27.8 38.1C28 38 28.3 37.7 28.4 37.6C28.9 37.1 29.5 36.6 29.9 36.2C30.1 36.1 30.5 35.7 30.7 35.5C31 35.3 31.2 35.1 31.3 35.0C31.4 34.9 31.9 34.5 32.4 34.1C33.4 33.3 33.6 33.1 34.3 32.6C34.7 32.3 35.5 31.7 35.6 31.7C35.6 31.7 35.7 31.6 35.9 31.5C36.7 31 38 30.4 38.1 30.5C38.2 30.5 37.8 31.2 37.6 31.6C37.5 31.7 37.3 32 37.3 32.1C37.2 32.2 37.1 32.4 37.1 32.4C37.1 32.4 37 32.6 36.9 32.8C36.8 33 36.5 33.4 36.2 33.8C34.8 36 34.3 36.9 33.9 38.0C33.7 38.9 33.5 39.5 33.5 40.2C33.4 40.7 33.3 67.6 33.4 73.3L33.4 76.6L33.5 77.2C33.6 77.8 33.8 78.2 33.9 78.5C34.1 78.8 35 79.7 35.3 79.9C35.7 80.2 36.1 80.5 36.4 80.7C36.6 80.7 36.9 80.9 37.1 81.0C37.3 81.2 37.5 81.3 37.6 81.3C37.7 81.4 37.7 81.4 37.6 81.5C37.6 81.5 28.6 81.5 26.7 81.5ZM28.2 74.5C27.3 73.7 26.7 73 26.1 72.0C24.7 69.9 24.2 68 24.2 65.3C24.2 62.9 24.5 60.9 25.6 58.2C25.7 58 25.8 57.7 25.9 57.5C26.2 57 26.4 56.4 26.4 56.4C26.4 56.3 26.8 55.5 27.1 55.0C27.3 54.7 27.5 54.4 27.5 54.4C27.5 54.4 28.1 53.4 28.3 53.1C28.4 52.9 28.6 52.6 28.7 52.5C28.8 52.3 28.9 52.2 28.9 52.2C29 52.2 29 55.6 28.9 61.3C28.9 63.4 28.9 67.1 28.8 69.6C28.8 74.5 28.8 74.8 28.7 74.9C28.7 74.9 28.5 74.7 28.2 74.5Z"];
+  var INF_L = 1e20;                   // "uendelig" afstand
+
+  // Tegner løven og regner for hver pixel afstanden til nærmeste kant ud.
+  // Grafikkortet bruger feltet til at forme løven i 3D.
+  function logoFelt(n) {
+    var c = document.createElement("canvas");
+    c.width = c.height = n;
+    var x = c.getContext("2d", { willReadFrequently: true }); // tegnes i hukommelsen, så den hurtigt kan læses
+    var k = n / 2 / 46;                 // logoets viewBox (7..93) fylder lidt mindre end feltet
+    x.setTransform(k, 0, 0, k, n / 2 - 50 * k, n / 2 - 50 * k);
+    x.fillStyle = x.strokeStyle = "#fff";
+    x.lineWidth = 1.15; x.lineJoin = "round"; x.lineCap = "round";
+    x.stroke(new Path2D(LOGO_STREG));
+    LOGO_FYLD.forEach(function (d) { x.fill(new Path2D(d)); });
+    var a = x.getImageData(0, 0, n, n).data;
+
+    var N = n * n, ude = new Float32Array(N), inde = new Float32Array(N), fyldt = 0, i, al, e;
+    for (i = 0; i < N; i++) {
+      al = a[i * 4 + 3] / 255;            // kantpixels tæller med en brøkdel, så kanten bliver præcis
+      e = 0.5 - al;
+      ude[i] = al >= 1 ? 0 : al <= 0 ? INF_L : e > 0 ? e * e : 0;
+      inde[i] = al >= 1 ? INF_L : al <= 0 ? 0 : e < 0 ? e * e : 0;
+      fyldt += al;
+    }
+    // Blokerer browseren for at læse tegningen (fx af hensyn til sporing), vises baggrunden uden 3D
+    if (fyldt < N * 0.03 || fyldt > N * 0.6) throw new Error("logo");
+    afstand(ude, n); afstand(inde, n);
+
+    // Afstanden i pixels, udglattet en smule, så kanten ikke får små trappetrin
+    var d = new Float32Array(N), t = new Float32Array(N);
+    for (i = 0; i < N; i++) d[i] = Math.sqrt(ude[i]) - Math.sqrt(inde[i]);
+    glat(d, t, n, 1); glat(t, d, n, n); glat(d, t, n, 1); glat(t, d, n, n);
+
+    // To kanaler: en grov til afstande langt fra løven og en fin tæt på kanten
+    // (Uint8ClampedArray runder og holder selv værdierne mellem 0 og 255)
+    var ud = new Uint8ClampedArray(N * 2), grov = 255 * 2 / n / 0.25, fin = 255 * 2 / n / 0.04;
+    for (i = 0; i < N; i++) {
+      ud[i * 2] = 127.5 + d[i] * grov;
+      ud[i * 2 + 1] = 127.5 + d[i] * fin;
+    }
+    return ud;
+  }
+
+  // Udglatning langs én retning (trin 1 = vandret, trin n = lodret) med vægtene 1-4-6-4-1
+  function glat(fra, til, n, trin) {
+    var lodret = trin !== 1;
+    for (var r = 0; r < n; r++) {
+      var base = lodret ? r : r * n;
+      for (var j = 0; j < n; j++) {
+        var i = base + j * trin;
+        var m2 = j > 1 ? i - 2 * trin : base, m1 = j > 0 ? i - trin : base;
+        var p1 = j < n - 1 ? i + trin : i, p2 = j < n - 2 ? i + 2 * trin : p1;
+        til[i] = (fra[m2] + 4 * fra[m1] + 6 * fra[i] + 4 * fra[p1] + fra[p2]) / 16;
+      }
+    }
+  }
+
+  // Afstand til nærmeste fyldte pixel (Felzenszwalb og Huttenlocher), først lodret, så vandret
+  function afstand(g, n) {
+    var f = new Float32Array(n), d = new Float32Array(n), v = new Int32Array(n), z = new Float32Array(n + 1), x, y;
+    for (x = 0; x < n; x++) { for (y = 0; y < n; y++) f[y] = g[y * n + x]; linje(f, d, v, z, n); for (y = 0; y < n; y++) g[y * n + x] = d[y]; }
+    for (y = 0; y < n; y++) { for (x = 0; x < n; x++) f[x] = g[y * n + x]; linje(f, d, v, z, n); for (x = 0; x < n; x++) g[y * n + x] = d[x]; }
+  }
+  function linje(f, d, v, z, n) {
+    var k = 0, q, s, r;
+    v[0] = 0; z[0] = -INF_L; z[1] = INF_L;
+    for (q = 1; q < n; q++) {
+      do { r = v[k]; s = (f[q] + q * q - f[r] - r * r) / (2 * q - 2 * r); } while (s <= z[k] && --k >= 0);
+      k++; v[k] = q; z[k] = s; z[k + 1] = INF_L;
+    }
+    for (k = 0, q = 0; q < n; q++) { while (z[k + 1] < q) k++; r = q - v[k]; d[q] = r * r + f[v[k]]; }
+  }
+
+  var logoTex = null, logoN = 0;
+  function logoTekstur() {
+    var n = logoN = lille ? 256 : 384;   // feltets opløsning: mindre på mobil, hvor løven er mindre
+    var data = logoFelt(n);
+    var t = gl.createTexture();
+    gl.bindTexture(gl.TEXTURE_2D, t);
+    gl.pixelStorei(gl.UNPACK_ALIGNMENT, 1);
+    gl.texImage2D(gl.TEXTURE_2D, 0, gl.LUMINANCE_ALPHA, n, n, 0, gl.LUMINANCE_ALPHA, gl.UNSIGNED_BYTE, data);
+    gl.texParameteri(gl.TEXTURE_2D, gl.TEXTURE_MIN_FILTER, gl.LINEAR);
+    gl.texParameteri(gl.TEXTURE_2D, gl.TEXTURE_MAG_FILTER, gl.LINEAR);
+    gl.texParameteri(gl.TEXTURE_2D, gl.TEXTURE_WRAP_S, gl.CLAMP_TO_EDGE);
+    gl.texParameteri(gl.TEXTURE_2D, gl.TEXTURE_WRAP_T, gl.CLAMP_TO_EDGE);
+    return t;
+  }
+
   /* ---------- Opsætning ---------- */
 
   var lille = window.matchMedia("(max-width: 760px)").matches;
@@ -245,7 +342,8 @@
   function init() {
     sceneProg = program(VERT_SCENE, FRAG_SCENE);
     sparkProg = program(VERT_SPARK, FRAG_SPARK);
-    uS = uniforms(sceneProg, ["uRes", "uTime", "uMouse", "uCenter", "uScale", "uDim", "uFlow", "uDrop", "uLight", "uBand", "uOrb0", "uOrb1", "uOrb2"]);
+    uS = uniforms(sceneProg, ["uRes", "uTime", "uMouse", "uCenter", "uScale", "uDim", "uFlow", "uLight", "uDrej", "uLogo", "uLogoN"]);
+    logoTex = logoTekstur();
     uP = uniforms(sparkProg, ["uTime", "uRes", "uMouse", "uFocus", "uPx", "uAmount"]);
     aPos = gl.getAttribLocation(sceneProg, "aPos");
     aSeed = gl.getAttribLocation(sparkProg, "aSeed");
@@ -288,7 +386,7 @@
   // Markøren: mål og blødt fulgt værdi. Uden mus svæver den af sig selv.
   var mus = { x: 0, y: 0, sidst: -1e9 };
   var m = { x: svaevX(tid), y: svaevY(tid) };
-  var cur = { cx: 0, cy: 0, sc: 1, dim: 1, flow: 1, spin: 0 };
+  var cur = { cx: 0, cy: 0, sc: 1, dim: 1, flow: 1, scroll: 0 };
   var forste = true;
   var holdTil = 0, glidTil = 0;
 
@@ -367,21 +465,19 @@
     m.x += (tx - m.x) * b;
     m.y += (ty - m.y) * b;
 
-    cur.spin = tid * 0.12 + mal.s * 1.6;
+    cur.scroll = mal.s;
     return mal;
   }
 
-  // Drejningen af båndet samles i én matrix, så grafikkortet slipper for at regne den pr. pixel
+  // Løven drejer sig mod markøren og svajer roligt. Drejningen samles i én matrix,
+  // så grafikkortet slipper for at regne den pr. pixel.
   var M = new Float32Array(9);
-  function drej(a, x, y) { var c = Math.cos(a), s = Math.sin(a); return [c * x + s * y, -s * x + c * y]; }
-  function baandMatrix(a1, a2, a3) {
-    for (var k = 0; k < 3; k++) {
-      var x = k === 0 ? 1 : 0, y = k === 1 ? 1 : 0, z = k === 2 ? 1 : 0, q;
-      q = drej(a1, y, z); y = q[0]; z = q[1];
-      q = drej(a2, x, y); x = q[0]; y = q[1];
-      q = drej(a3, x, z); x = q[0]; z = q[1];
-      M[k * 3] = x; M[k * 3 + 1] = y; M[k * 3 + 2] = z;
-    }
+  function drejMatrix(ay, ax) {
+    var c1 = Math.cos(ay), s1 = Math.sin(ay), c2 = Math.cos(ax), s2 = Math.sin(ax);
+    // Først om den lodrette akse (ay), så om den vandrette (ax). Gemmes kolonne for kolonne.
+    M[0] = c1;  M[3] = 0;   M[6] = s1;
+    M[1] = -s2 * s1; M[4] = c2; M[7] = s2 * c1;
+    M[2] = -c2 * s1; M[5] = -s2; M[8] = c2 * c1;
     return M;
   }
 
@@ -392,10 +488,11 @@
     var aspect = mal.aspect;
     var mux = m.x * 0.5 * aspect, muy = m.y * 0.5;           // markør i skærmkoordinater
     var mwx = m.x * mal.halvB, mwy = m.y * mal.halvH;          // markør i verden
-    var dx = (mwx - cur.cx) / cur.sc, dy = (mwy - cur.cy) / cur.sc, dz = 0.9;
-    var len = Math.sqrt(dx * dx + dy * dy + dz * dz) || 1;
-    var naer = Math.min(Math.sqrt(dx * dx + dy * dy), 3) / 3;
-    var rk = 0.8 + 0.34 * naer;
+    // Løven vender sig mod markøren, men aldrig så meget, at den ses fra kanten.
+    // Den svajer roligt, når bevægelse er tilladt, og drejer lidt, når man scroller.
+    var ox = (mwx - cur.cx) / mal.halvB, oy = (mwy - cur.cy) / mal.halvH, sv = rolig ? 0 : 1;
+    var ay = Math.atan(ox * 1.2) * 0.5 + sv * 0.2 * Math.sin(tid * 0.33) + Math.min(cur.scroll, 2) * 0.3;
+    var ax = -Math.atan(oy * 1.2) * 0.4 + sv * 0.1 * Math.sin(tid * 0.27 + 1);
     var lx = m.x * 1.3, ly = 0.55 + m.y * 0.6, lz = 0.85;
     var ll = Math.sqrt(lx * lx + ly * ly + lz * lz);
 
@@ -411,14 +508,12 @@
     gl.uniform1f(uS.uScale, cur.sc);
     gl.uniform1f(uS.uDim, cur.dim);
     gl.uniform1f(uS.uFlow, cur.flow);
-    gl.uniform3f(uS.uDrop, dx / len * rk, dy / len * rk, dz / len * rk);
     gl.uniform3f(uS.uLight, lx / ll, ly / ll, lz / ll);
-    gl.uniformMatrix3fv(uS.uBand, false, baandMatrix(m.y * 0.45 + 0.5, m.x * 0.36 - 0.35, cur.spin));
-    for (var i = 0; i < 3; i++) {
-      var ang = tid * (0.45 + 0.12 * i) + i * 2.1;
-      var rad = 0.74 + 0.16 * Math.sin(tid * 0.6 + i * 1.7);
-      gl.uniform4f(uS["uOrb" + i], Math.cos(ang) * rad, Math.sin(ang * 1.3 + i) * 0.32, Math.sin(ang) * rad, 0.075 + 0.025 * i);
-    }
+    gl.uniformMatrix3fv(uS.uDrej, false, drejMatrix(ay, ax));
+    gl.activeTexture(gl.TEXTURE0);
+    gl.bindTexture(gl.TEXTURE_2D, logoTex);
+    gl.uniform1i(uS.uLogo, 0);
+    gl.uniform1f(uS.uLogoN, logoN);
     gl.drawArrays(gl.TRIANGLES, 0, 3);
     gl.disableVertexAttribArray(aPos);
 

diff --git a/README.md b/README.md
@@ -120,7 +120,7 @@ Tjekket er en hjælp, ikke juridisk rådgivning.
 
 ## Design og 3D-baggrund
 
-Siden har et mørkt luksustema i guld og orange. Bag indholdet kører en 3D-baggrund: en skulptur af flydende guld med et snoet bånd og dråber, gnister og glødende lysstrømme. Den følger musen, ligger stille for besøgende, der har slået animationer fra på deres enhed, og kan stoppes med pauseknappen i menulinjen. Baggrunden tegnes direkte i browseren (`assets/js/scene.js`) uden eksterne biblioteker, så der stadig ikke sendes data til tredjepart. Kan en browser ikke vise 3D, ser den en rolig guld/orange gradient i stedet. Når man skifter side, glider indholdet blødt ud og ind, mens menulinjen og 3D-baggrunden bliver stående (`assets/js/sideskift.js`). Det sker ikke for besøgende, der har slået animationer fra.
+Siden har et mørkt luksustema i guld og orange. Bag indholdet kører en 3D-baggrund: løven fra logoet i poleret guld, gnister og glødende lysstrømme. Løven drejer sig mod musen, ligger stille for besøgende, der har slået animationer fra på deres enhed, og kan stoppes med pauseknappen i menulinjen. Baggrunden tegnes direkte i browseren (`assets/js/scene.js`) uden eksterne biblioteker, så der stadig ikke sendes data til tredjepart. Kan en browser ikke vise 3D, ser den en rolig guld/orange gradient i stedet. Når man skifter side, glider indholdet blødt ud og ind, mens menulinjen og 3D-baggrunden bliver stående (`assets/js/sideskift.js`). Det sker ikke for besøgende, der har slået animationer fra.
 
 ## Farver og skrift
 
@@ -133,4 +133,4 @@ Alle farver og gradienter ligger øverst i `assets/css/style.css`:
 
 Skrifttyper: Bodoni Moda (overskrifter) og Jost (brødtekst), begge under SIL Open Font License (se `assets/fonts`).
 
-Logoet er `assets/img/maerke.svg`: løven med to L’er (Lion og Legacy), uden ring. Alle sider henter det fra den ene fil (menu, footer, citatet på forsiden, produktpladsholdere og fejlsiden), så erstatter du filen, skifter logoet overalt. Fanebladsikonet er `favicon.svg` og `favicon-32.png` (LL-seglet), og ikonet til telefonens hjemmeskærm er `apple-touch-icon.png`. Billedet, der vises, når siden deles på sociale medier, er `deling.jpg`.
+Logoet er `assets/img/maerke.svg`: løven med to L’er (Lion og Legacy), uden ring. Alle sider henter det fra den ene fil (menu, footer, citatet på forsiden, produktpladsholdere og fejlsiden), så erstatter du filen, skifter logoet overalt. Kun guldløven i 3D-baggrunden er tegnet ud fra en kopi af logoets streger i `assets/js/scene.js` (`LOGO_STREG` og `LOGO_FYLD`), så den skal rettes dér, hvis logoet ændres. Fanebladsikonet er `favicon.svg` og `favicon-32.png` (LL-seglet), og ikonet til telefonens hjemmeskærm er `apple-touch-icon.png`. Billedet, der vises, når siden deles på sociale medier, er `deling.jpg`.

diff --git a/CLAUDE.md b/CLAUDE.md
@@ -21,7 +21,7 @@ Dette repository er hjemmesiden **lionslegacy.dk** for virksomheden Lion’s Leg
 | `404.html` | Fejlside. Bruger **absolutte** stier (`/assets/...`, `/kontakt.html`) |
 | `assets/css/style.css` | Al styling. Farver, gradienter og skrift som variabler i `:root` |
 | `assets/js/main.js` | Mobilmenu, årstal, header ved scroll, lys på kort, indhold der glider frem, formularvalidering og `?produkt=`-udfyldning |
-| `assets/js/scene.js` | 3D-baggrunden (WebGL uden biblioteker): flydende guld, gnister og lysstrømme, der følger musen. Opretter også pauseknappen |
+| `assets/js/scene.js` | 3D-baggrunden (WebGL uden biblioteker): løven fra logoet i poleret guld, gnister og lysstrømme, der følger musen. Opretter også pauseknappen. Løvens streger er kopieret fra `maerke.svg` til `LOGO_STREG` og `LOGO_FYLD`, så ændres logoet, skal de rettes med |
 | `assets/js/sideskift.js` | Glidende sideskift: vælger retning (frem/tilbage i menuens rækkefølge) og holder menulinjen og 3D-baggrunden stille, mens indholdet glider. Styles under "Glidende sideskift" i `style.css` |
 | `assets/fonts/` | Selvhostede skrifttyper (Bodoni Moda, Jost) |
 | `assets/img/` | Logo (`maerke.svg`), favicon, delingsbillede (`deling.jpg`), `produkter/` til produktbilleder |
